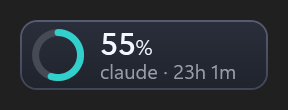
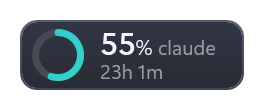
feat: narrower pill, product name on the top line beside the percentage
The second line now shows only the status. Claude pill 155 -> 132 DIP, Codex 135 -> 126 DIP
(sample data, 100% scale). README and site screenshots re-rendered from sample data.

Refs #25

diff --git a/site/index.html b/site/index.html
@@ -153,8 +153,8 @@ footer a{color:var(--dim)}
       <img src="images/claude-card.png" width="700" height="814" fetchpriority="high" decoding="async" alt="Claude usage card: 55% left this week for all models, a teal pace box saying On pace with when it would run out, and bars for the weekly and 5-hour session limits">
     </div>
     <div class="taskbar">
-      <img src="images/codex-pill.png" alt="Codex pill: ring at 10% with an orange edge, codex · 5d 1h until the reset" width="270" height="110">
-      <img src="images/claude-pill.png" alt="Claude pill: ring at 55%, claude · 23h 1m until the reset" width="302" height="110">
+      <img src="images/codex-pill.png" alt="Codex pill: ring at 10% with an orange edge, 10% codex, 5d 1h until the reset" width="254" height="110">
+      <img src="images/claude-pill.png" alt="Claude pill: ring at 55%, 55% claude, 23h until the reset" width="264" height="110">
       <span class="clock" aria-hidden="true">19:58<br>13-Nov-26</span>
     </div>
   </div>

diff --git a/README.md b/README.md
@@ -14,8 +14,8 @@ Two small Windows taskbar widgets show how much of your weekly **Claude** and **
   <img src="docs/images/codex-card.png" width="330" alt="Codex usage card: 10% left this week, credits line, red pace box saying Too fast with the run-out time, weekly limit bar">
 </p>
 <p>
-  <img src="docs/images/claude-pill.png" height="44" alt="Claude pill on the taskbar: ring at 55%, 'claude · 23h 1m' until the reset">
-  <img src="docs/images/codex-pill.png" height="44" alt="Codex pill on the taskbar: ring at 10% with an orange border, 'codex · 5d 1h'">
+  <img src="docs/images/claude-pill.png" height="44" alt="Claude pill on the taskbar: ring at 55%, '55% claude' over 23h until the reset">
+  <img src="docs/images/codex-pill.png" height="44" alt="Codex pill on the taskbar: ring at 10% with an orange border, '10% codex' over 5d 1h">
 </p>
 
 ## What you get
